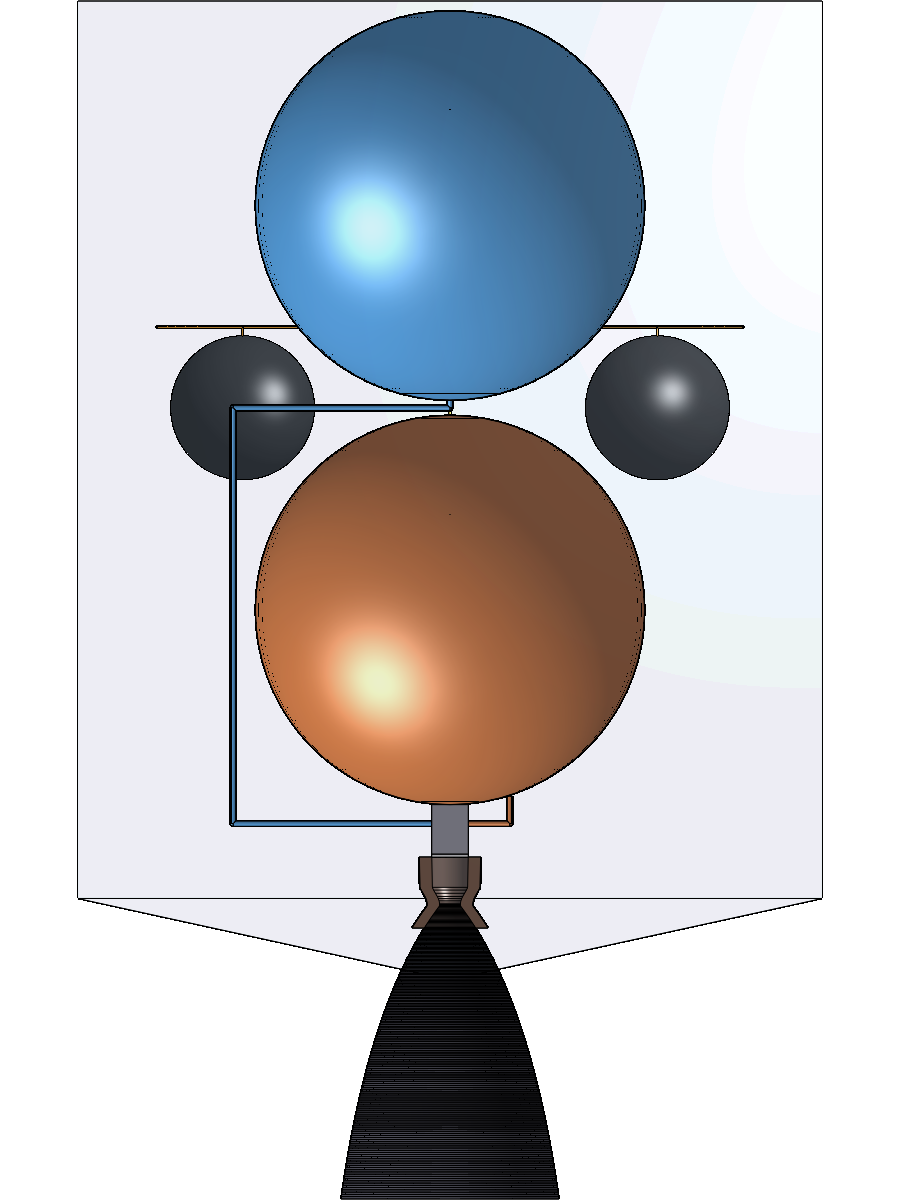
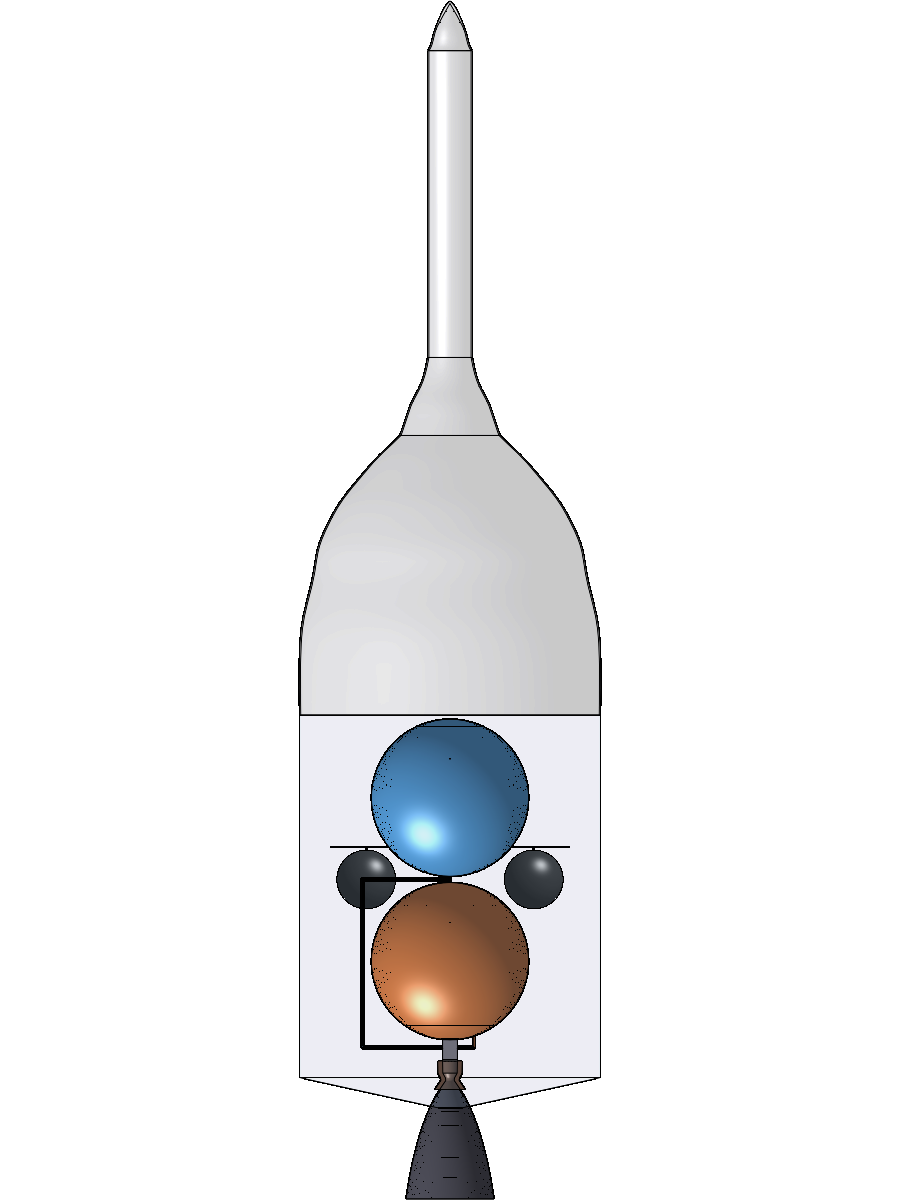
Onshape v3: capsule/LES reference shell, smooth one-piece engine bodies
- Capsule + launch escape system outer shell traced from the PDR slide-7
  drawing (reference only, no mass, excluded from interference check)
- Liner, case and C-103 extension revolved from fitted splines instead of
  polylines; extension is the gas-side surface thickened 0.6 mm and trimmed
  at the liner face
- Cut box extended to cover the LES; verify reads nominal mass/volume
  (index 0) instead of the lower bound

Claude-Session: https://claude.ai/code/session_01Kzb2Kx3sJnv3m5oitxddTB

diff --git a/onshape/build_onshape.py b/onshape/build_onshape.py
@@ -66,9 +66,22 @@ def outlines():
     abl = [r for r in rows if r['reg'] == 'ablative']
     ext = [abl[-1]] + [r for r in rows if r['reg'] == 'C103_extension']   # start at the interface station
     z = lambda r: zt - r['x']
-    liner = [(r['ri'], z(r)) for r in abl] + [(r['ri'] + tl, z(r)) for r in reversed(abl)]
-    case = [(r['ri'] + tl, z(r)) for r in abl] + [(r['ro'], z(r)) for r in reversed(abl)]
-    nozext = [(r['ri'], z(r)) for r in ext] + [(r['ri'] + te, z(r)) for r in reversed(ext)]
+    inner = [(r['ri'], z(r)) for r in abl]
+    mid = [(r['ri'] + tl, z(r)) for r in abl]
+    outer = [(r['ro'], z(r)) for r in abl]
+
+    def annulus(a, b, chamber_line):
+        """Closed outline between inner curve a and outer curve b (same stations), as line/spline pieces.
+        chamber_line: the first station pair is joined by a straight line (cylindrical chamber section)."""
+        k = 1 if chamber_line else 0
+        pieces = ([('line', a[:2])] if k else []) + [('spline', a[k:]), ('line', [a[-1], b[-1]]), ('spline', b[k:][::-1])]
+        pieces += ([('line', b[:2][::-1])] if k else []) + [('line', [b[0], a[0]])]
+        return pieces
+
+    liner = annulus(inner, mid, True)
+    case = annulus(mid, outer, True)
+    e_in = [(r['ri'], z(r)) for r in ext]
+    nozext = e_in                        # gas-side curve only; the extension is this surface thickened by te
     return lay, liner, case, nozext
 
 
@@ -111,6 +124,36 @@ def layout(lay):
                 hp_feed=hp_feed, lp=lp, reg_center=(0, LP_R, z_ring), reg_half=reg_half,
                 ullage={k: 1 - v / (math.pi / 6 * (TANK_ID * 1e-3) ** 3) for k, v in (('NTO', 9.080188679245284), ('MMH', 9.056603773584907))},
                 clear_top=lay['service_module']['length'] - (zf + Ro['MMH']))
+
+
+# Capsule + launch escape system outer shape, traced from the PDR review slide-7 drawing (image15.png):
+# (pixel row, left-edge column); centreline column 571; 4.98 m = 108 px across, 11.8 m = 265 px tall.
+LES_TRACE = dict(
+    bullet=[(299, 516), (276, 516), (264, 517), (255, 519), (246, 521), (237, 522.5), (228, 526), (219, 531), (210, 538),
+            (204, 543), (198, 549), (195, 552)],
+    neck=[(195, 552), (189, 554), (183, 556), (177, 559), (171, 561), (166, 562)],
+    rod=[(166, 562), (52, 562)],
+    nose=[(52, 562), (50, 563), (46, 564), (43, 565), (36, 568), (33.5, 571)])
+LES_WALL = 20.0                          # display shell thickness, mm (no material: reference only)
+
+
+def les_outline(sm_top):
+    sx, sy = 4980.0 / 108, 11800.0 / 265
+    pt = lambda y, x: (max(0.0, (571 - x - 1) * sx) if x < 571 else 0.0, sm_top + (299 - y) * sy)
+    outer = [[pt(y, x) for y, x in LES_TRACE[k]] for k in ('bullet', 'neck', 'rod', 'nose')]
+    outer[0][0] = (4980.0 / 2, sm_top)
+    inner = [[(r - LES_WALL, z) for r, z in seg] for seg in outer]
+    inner[3] = [(r - LES_WALL, z) for r, z in outer[3][:-2]] + [(0.0, outer[3][-1][1] - 2 * LES_WALL)]
+    kinds = ('spline', 'spline', 'line', 'spline')
+    pieces = [(k, seg) for k, seg in zip(kinds, outer)]
+    pieces.append(('line', [outer[3][-1], inner[3][-1]]))
+    pieces += [(k, seg[::-1]) for k, seg in zip(kinds[::-1], inner[::-1])]
+    pieces.append(('line', [inner[0][0], outer[0][0]]))
+    return pieces
+
+
+def fs_pieces(pieces):
+    return '[' + ', '.join(f'["{k}", {fs_pts(p)}]' for k, p in pieces) + ']'
 
 
 def fs_pts(pts):
@@ -173,9 +216,10 @@ import(path : "onshape/std/common.fs", version : "{FS_VERSION}.0");
 
 // Generated by onshape/build_onshape.py from abeona/cad/engine_profile.csv and layout.json. Units mm,
 // service-module frame: origin at the SM base on the axis, +Z up. Profiles are (r, z) outlines.
-const LINER = {fs_pts(liner)};
-const CASE = {fs_pts(case)};
+const LINER = {fs_pieces(liner)};
+const CASE = {fs_pieces(case)};
 const EXTENSION = {fs_pts(nozext)};
+const LES = {fs_pieces(les_outline(sm['length']))};
 const ENVELOPE = {fs_pts(envelope)};
 const XZ = plane(vector(0, 0, 0) * millimeter, vector(0, -1, 0), vector(1, 0, 0));   // sketch (u, v) = (X, Z)
 const ZAXIS = line(vector(0, 0, 0) * millimeter, vector(0, 0, 1));
@@ -197,6 +241,50 @@ function revolveOutline(context is Context, id is Id, pts is array) returns Quer
     opRevolve(context, id + "rev", {{ "entities" : qSketchRegion(id + "sk"), "axis" : ZAXIS, "angleForward" : 2 * PI * radian }});
     opDeleteBodies(context, id + "del", {{ "entities" : qCreatedBy(id + "sk") }});
     return qCreatedBy(id + "rev", EntityType.BODY);
+}}
+
+// Closed outline of ["line" | "spline", [[r, z], ...]] pieces, revolved 360 deg about Z into one smooth body.
+function revolvePieces(context is Context, id is Id, pieces is array) returns Query
+{{
+    const sk = newSketchOnPlane(context, id + "sk", {{ "sketchPlane" : XZ }});
+    for (var i = 0; i < size(pieces); i += 1)
+    {{
+        var p = [];
+        for (var q in pieces[i][1])
+            p = append(p, vector(q[0], q[1]) * millimeter);
+        if (pieces[i][0] == "line")
+            skLineSegment(sk, "l" ~ i, {{ "start" : p[0], "end" : p[1] }});
+        else
+            skFitSpline(sk, "s" ~ i, {{ "points" : p }});
+    }}
+    skSolve(sk);
+    opRevolve(context, id + "rev", {{ "entities" : qSketchRegion(id + "sk"), "axis" : ZAXIS, "angleForward" : 2 * PI * radian }});
+    opDeleteBodies(context, id + "del", {{ "entities" : qCreatedBy(id + "sk") }});
+    return qCreatedBy(id + "rev", EntityType.BODY);
+}}
+
+// Revolve a fitted spline through pts into a surface and thicken it outward by t (constant wall, one smooth body).
+function revolveThicken(context is Context, id is Id, pts is array, t is number) returns Query
+{{
+    const sk = newSketchOnPlane(context, id + "sk", {{ "sketchPlane" : XZ }});
+    var p = [];
+    for (var q in pts)
+        p = append(p, vector(q[0], q[1]) * millimeter);
+    skFitSpline(sk, "s", {{ "points" : p }});
+    skSolve(sk);
+    opRevolve(context, id + "surf", {{ "entities" : qCreatedBy(id + "sk", EntityType.EDGE), "axis" : ZAXIS, "angleForward" : 2 * PI * radian }});
+    opThicken(context, id + "thk", {{ "entities" : qCreatedBy(id + "surf", EntityType.BODY), "thickness1" : t * millimeter, "thickness2" : 0 * millimeter }});
+    // thicken must grow away from the gas side: the body's max radius must exceed the largest gas-side radius
+    var rmax = 0;
+    for (var q in pts)
+        rmax = max(rmax, q[0]);
+    if (evBox3d(context, {{ "topology" : qCreatedBy(id + "thk", EntityType.BODY) }}).maxCorner[0] < (rmax + t / 2) * millimeter)
+    {{
+        opDeleteBodies(context, id + "undo", {{ "entities" : qCreatedBy(id + "thk", EntityType.BODY) }});
+        opThicken(context, id + "thk2", {{ "entities" : qCreatedBy(id + "surf", EntityType.BODY), "thickness1" : 0 * millimeter, "thickness2" : t * millimeter }});
+    }}
+    opDeleteBodies(context, id + "del", {{ "entities" : qUnion([qCreatedBy(id + "sk"), qCreatedBy(id + "surf", EntityType.BODY)]) }});
+    return qUnion([qCreatedBy(id + "thk", EntityType.BODY), qCreatedBy(id + "thk2", EntityType.BODY)]);
 }}
 
 // Hollow tube network: straight segments, spherical elbows at joints, and full rings (radius, z) about the Z axis.
@@ -258,11 +346,15 @@ export const abeonaBuild = defineFeature(function(context is Context, id is Id, 
     }}
     {{
         // 1. Engine
-        tag(context, revolveOutline(context, id + "liner", LINER), "Engine - Ablative liner (silica phenolic)",
+        tag(context, revolvePieces(context, id + "liner", LINER), "Engine - Ablative liner (silica phenolic)",
             material("Silica phenolic", {RHO["liner"]} * kilogram / meter ^ 3), color(0.45, 0.35, 0.3));
-        tag(context, revolveOutline(context, id + "case", CASE), "Engine - Chamber case (Ti-6Al-4V)", {ti}, color(0.7, 0.7, 0.75));
-        tag(context, revolveOutline(context, id + "ext", EXTENSION), "Engine - Nozzle extension (C-103)",
+        tag(context, revolvePieces(context, id + "case", CASE), "Engine - Chamber case (Ti-6Al-4V)", {ti}, color(0.7, 0.7, 0.75));
+        tag(context, revolveThicken(context, id + "ext", EXTENSION, {e['extension_thickness']}), "Engine - Nozzle extension (C-103)",
             material("C-103 niobium", {RHO["c103"]} * kilogram / meter ^ 3), color(0.35, 0.35, 0.4));
+        // trim the thickened extension's end where it meets the liner end face
+        opBoolean(context, id + "extTrim", {{ "tools" : qCreatedBy(id + "liner", EntityType.BODY),
+                    "targets" : qUnion([qCreatedBy(id + "ext" + "thk", EntityType.BODY), qCreatedBy(id + "ext" + "thk2", EntityType.BODY)]),
+                    "operationType" : BooleanOperationType.SUBTRACTION, "keepTools" : true }});
         fCylinder(context, id + "plate", {{ "bottomCenter" : vector(0, 0, {z_face:.4f}) * millimeter, "topCenter" : vector(0, 0, {z_plate:.4f}) * millimeter,
                     "radius" : {rc:.4f} * millimeter }});
         fCylinder(context, id + "head", {{ "bottomCenter" : vector(0, 0, {z_plate:.4f}) * millimeter, "topCenter" : vector(0, 0, {z_gim:.4f}) * millimeter,
@@ -303,13 +395,15 @@ export const abeonaBuild = defineFeature(function(context is Context, id is Id, 
         tag(context, qCreatedBy(id + "reg", EntityType.BODY), "He regulator / check-valve panel (31 to 1.33 MPa, lumped {M_REG:.0f} kg)",
             material("Lumped regulator panel", {rho_reg:.3f} * kilogram / meter ^ 3), color(0.9, 0.2, 0.2));
 
-        // 4. Envelope (reference only, no material)
+        // 4. Reference shapes (no material): capsule + LES outer shell from the PDR drawing, SM envelope
+        tag(context, revolvePieces(context, id + "les", LES), "REF - Capsule + launch escape system (outer shell)", undefined,
+            color(0.75, 0.75, 0.78, 0.35));
         tag(context, revolveOutline(context, id + "env", ENVELOPE), "REF - Service module envelope", undefined, color(0.6, 0.75, 0.95, 0.15));
 
         // 5. Optional cut view: remove the -Y half of every body
         if (definition.cutView)
         {{
-            fCuboid(context, id + "cutBox", {{ "corner1" : vector(-3000, -3000, -3000) * millimeter, "corner2" : vector(3000, 0, 7000) * millimeter }});
+            fCuboid(context, id + "cutBox", {{ "corner1" : vector(-3000, -3000, -3000) * millimeter, "corner2" : vector(3000, 0, 20000) * millimeter }});
             opBoolean(context, id + "cut", {{ "tools" : qCreatedBy(id + "cutBox", EntityType.BODY),
                         "targets" : qSubtraction(qCreatedBy(id, EntityType.BODY), qCreatedBy(id + "cutBox", EntityType.BODY)),
                         "operationType" : BooleanOperationType.SUBTRACTION }});

diff --git a/onshape/verify_onshape.py b/onshape/verify_onshape.py
@@ -17,7 +17,7 @@ CHECK = '''function(context is Context, queries) {
     var hw = [];
     for (var b in bodies) {
         const n = getProperty(context, { "entity" : b, "propertyType" : PropertyType.NAME });
-        if (n == "REF - Service module envelope") env = b; else { hw = append(hw, b); names = append(names, n); }
+        if (n == "REF - Service module envelope") env = b; else if (n != "REF - Capsule + launch escape system (outer shell)") { hw = append(hw, b); names = append(names, n); }
     }
     const overlap = function(tag is string, a is Query, b is Query, op is string) {
         const id = makeId("chk" ~ tag);
@@ -89,8 +89,8 @@ if __name__ == '__main__':
     for p in parts:
         b = mp.get(p['partId'], {})
         res['parts'].append(dict(name=p['name'], partId=p['partId'], material=(p.get('material') or {}).get('displayName'),
-                                 mass_kg=b.get('mass', [None, None])[1] if b.get('hasMass') else None,
-                                 volume_m3=b.get('volume', [None, None])[1],
+                                 mass_kg=b['mass'][0] if b.get('hasMass') else None,   # [nominal, min, max]
+                                 volume_m3=b['volume'][0] if b.get('volume') else None,
                                  centroid_z_mm=b['centroid'][2] * 1e3 if b.get('centroid') else None))
     fs = api('POST', PS + '/featurescript', json=dict(script=CHECK))
     if fs.get('notices'):

diff --git a/onshape/REPORT.md b/onshape/REPORT.md
@@ -5,9 +5,19 @@ Part Studio 1 has one feature, **ABEONA engine and tanks**. It is defined in the
 and generated by `onshape/build_onshape.py` from `abeona/cad/engine_profile.csv` and `layout.json`.
 Units are mm, in the SM frame: the origin is at the SM base on the axis, with +Z up. Run `onshape/verify_onshape.py` to regenerate the numbers below.
 
-## Model contents (v2)
+## Model contents (v3)
 
-The build changes since v1, which come from the PDR review (slide 7 drawing) and your requests:
+**New in v3:**
+- **Capsule + launch escape system:** a reference shell only (20 mm display wall, no material, 35 % opacity, left out of the mass and interference checks).
+  The profile is traced from the PDR slide-7 drawing at 4.98 m across and 11.8 m from the SM top to the tip (tip at z = 17.82 m).
+  It covers the bullet fairing, the neck, a 0.74 m tower and a rounded nose. The drawing's ".41" dimension lands on the nose (about 0.41 m wide there).
+  It does not match the drawn tower, which measures about 0.74 m wide.
+- **Smooth engine:** the liner, case and C-103 extension are now revolved from fitted splines through the profile stations, not polylines.
+  Each one is a single smooth body of revolution, with no faceted rings.
+  The extension is the gas-side spline surface thickened by a constant 0.6 mm (33.2 kg, against 32.5 kg calculated by hand).
+  It is trimmed where it meets the liner end face. The liner, case and extension stay separate parts because they are different materials.
+
+**From v2** (PDR review slide 7, plus your requests):
 
 - **Tanks match the PDR drawing:** 2.6 m ID spheres (9.203 m³ each). The wall is scaled from s08 to 2.14 mm, keeping the same MEOP and allowable stress.
   Equal volumes are correct here: at O/F 1.65, the NTO density (1440 kg/m³) and MMH density (875 kg/m³) give 9.08 and 9.06 m³ of propellant (PDR 1.2.2-01/02).
@@ -31,28 +41,29 @@ The build changes since v1, which come from the PDR review (slide 7 drawing) and
 - **Cut view toggle:** edit the feature **ABEONA engine and tanks** and tick **Cut view (remove −Y half)**. Every body is cut on the XZ plane,
   which runs through both feed lines. Untick it before reading mass properties. Onshape's own *Section view* tool (View menu) also works without editing the feature.
 
-## Mass properties (Onshape, cut view off), compared with the report (s09)
+## Mass properties (Onshape nominal values, cut view off), compared with the report (s09)
 
 | Part | Material (kg/m³) | Onshape, kg | Report, kg | Note |
 |---|---|---:|---:|---|
 | Ablative liner | silica phenolic 1750 | 66.13 | 66.38 | |
 | Chamber case | Ti-6Al-4V 4430 | 6.47 | 10.03 | report adds 3 kg of flanges |
-| Nozzle extension | C-103 8860 | 31.27 | 40.65 | report adds ×1.25 for rings, flange and coating |
+| Nozzle extension (one smooth body) | C-103 8860 | 33.23 | 40.65 | report = 32.5 bare × 1.25 (rings, flange, coating) |
 | Injector plate, 12 cavities | 304L 7900 | 6.94 | 10.00 | report includes a 2.6 kg manifold |
 | Head/valve/gimbal stack | lumped | 44.00 | 44.0 | valves, EMAs and misc |
 | Tank NTO, bare shell | Ti-6Al-4V 4430 | 201.28 | 271.92 | 2.6 m ID; the report's mass includes more than the shell |
 | Tank MMH, bare shell | Ti-6Al-4V 4430 | 201.28 | 271.22 | same |
 | COPV ×4 | lumped | 4 × 94.98 | 379.94 | |
-| Feed lines NTO / MMH | 321 SS 8030 | 0.70 / 5.50 | | |
-| He HP manifold / LP lines | 321 SS 8030 | 4.17 / 1.83 | | |
-| Lines total | | 12.20 | 12.93 | |
+| Feed lines NTO / MMH | 321 SS 8030 | 0.70 / 8.50 | | |
+| He HP manifold / LP lines | 321 SS 8030 | 4.17 / 2.01 | | |
+| Lines total | | 15.38 | 12.93 | the MMH line is long (5.6 m) because it routes around the NTO tank |
 | He regulator panel | lumped | 10.00 | (in 40 kg components) | |
+| Capsule + LES shell | none (reference, 35 % opacity) | – | – | |
 | SM envelope | none (reference, 15 % opacity) | – | – | |
 
-## Interference check (v2)
+## Interference check (v3)
 
 The check computed pairwise boolean intersections of all 17 hardware bodies (136 pairs) on copies in Onshape.
-**There is no interference** (overlap 0 for every pair). The connected parts meet with gaps between 0 and 0.12 mm.
+**There is no interference.** The largest overlap of any pair is 4×10⁻⁵ mm³, which is numerical noise at tangent contacts. The connected parts meet with gaps between 0 and 0.12 mm.
 The 0.12 mm gap is at the MMH outlet stub: its flat end sits against the curved bottom dome.
 The NTO-to-MMH tank gap is 95.7 mm.
 Against the SM envelope, only the C-103 extension is outside (3.27 L), which is expected because the exit is 2010 mm below the SM base.
